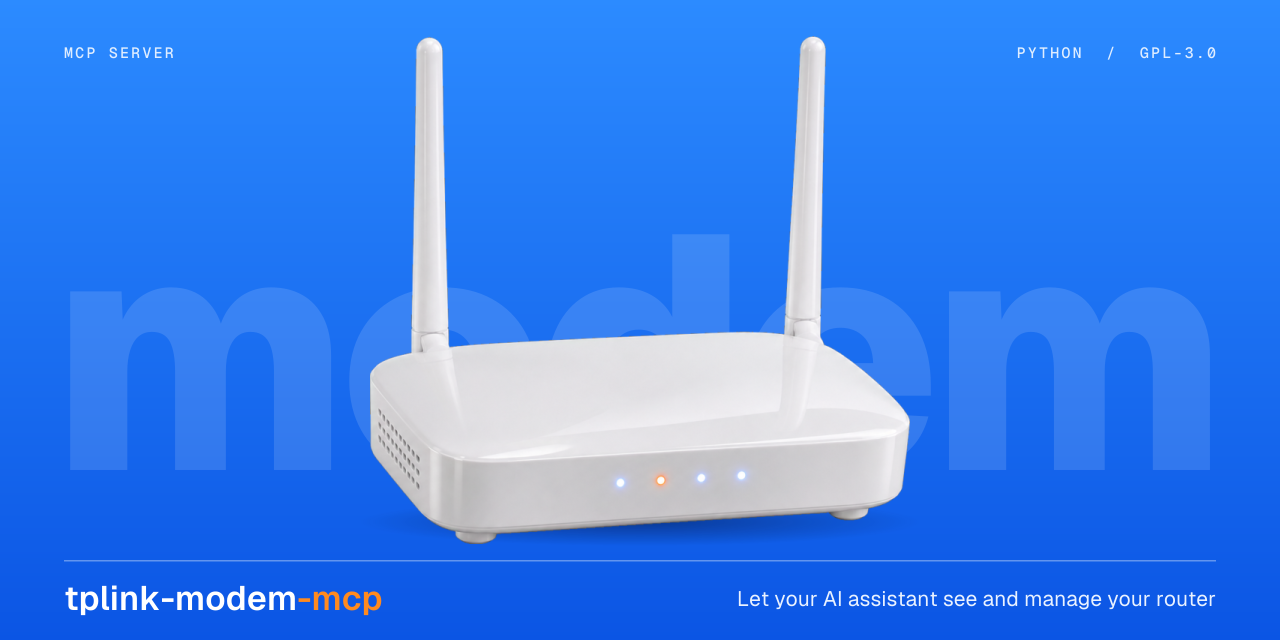
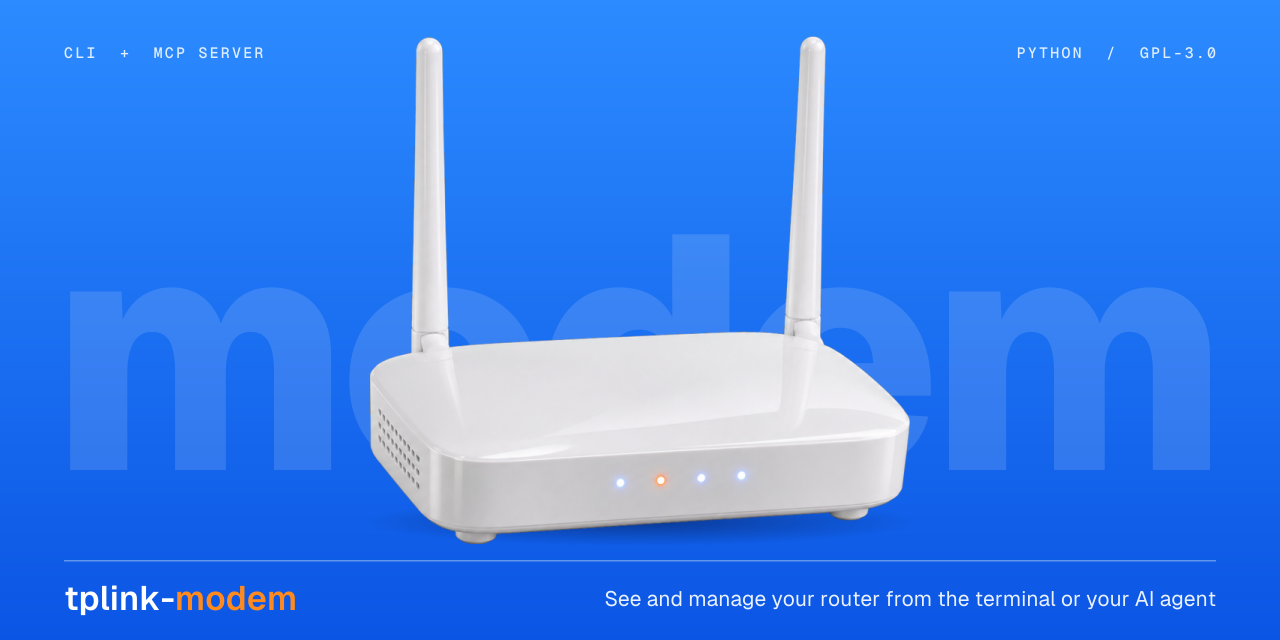
docs: brand kit under the tplink-modem name

Changed region(s): [[0.4688, 0.9062, 0.9375, 0.9688], [0.125, 0.9062, 0.3125, 0.9688], [0.0312, 0.0625, 0.2188, 0.0938]]

diff --git a/assets/brand/build.py b/assets/brand/build.py
@@ -1,4 +1,4 @@
-"""Build the tplink-modem-mcp brand kit: round logo, lockup, social preview (text outlined to paths)."""
+"""Build the tplink-modem brand kit: round logo, lockup, social preview (text outlined to paths)."""
 import base64, sys, pathlib
 from fontTools.ttLib import TTFont
 from fontTools.varLib import instancer
@@ -11,7 +11,7 @@ FONTS = pathlib.Path.home() / ".local/share/fonts/google"
 
 BLUE_TOP, BLUE_BOT = "#3AA0FF", "#0A5BEA"  # circle gradient
 NAVY = "#0A2540"
-ACCENT = "#FF8A1F"                        # status LED / "mcp"
+ACCENT = "#FF8A1F"                        # status LED / "modem"
 WHITE = "#FFFFFF"
 MUTED = "#A9C6F5"
 
@@ -82,8 +82,8 @@ def svg(w, h, body):
 # 2. Horizontal lockup (light and dark text)
 def lockup(text_fill, name):
     h = 160
-    a, wa = text_path(SANS_SB, "tplink-modem", 192, 103, 64, text_fill)
-    b, wb = text_path(SANS_SB, "-mcp", 192 + wa, 103, 64, ACCENT)
+    a, wa = text_path(SANS_SB, "tplink-", 192, 103, 64, text_fill)
+    b, wb = text_path(SANS_SB, "modem", 192 + wa, 103, 64, ACCENT)
     w = int(192 + wa + wb + 16)
     body = f'<g transform="translate(8 8) scale({144/512})">{mark("l"+name)}</g>{a}{b}'
     (OUT / f"lockup-{name}.svg").write_text(svg(w, h, body))
@@ -128,8 +128,8 @@ BG = '''<defs><linearGradient id="bg" x1="0" y1="0" x2="0" y2="1">
 
 
 BANNER_TEXT = {
-    "en": {"kicker": "MCP SERVER", "tagline": "Let your AI assistant see and manage your router"},
-    "tr": {"kicker": "MCP SUNUCUSU", "tagline": "Yapay zekâ asistanın modemini görsün ve yönetsin"},
+    "en": {"kicker": "CLI  +  MCP SERVER", "tagline": "See and manage your router from the terminal or your AI agent"},
+    "tr": {"kicker": "KOMUT SATIRI  +  MCP", "tagline": "Modemini terminalden ya da yapay zekâ ajanından yönet"},
 }
 
 for lang, t in BANNER_TEXT.items():
@@ -142,8 +142,8 @@ for lang, t in BANNER_TEXT.items():
     p.append(tp(MONO, t["kicker"], 64, 58, 15, WHITE, track=2.2, opacity=0.85)[0])
     p.append(tp(MONO, "PYTHON  /  GPL-3.0", 1216, 58, 15, WHITE, "end", track=2.2, opacity=0.85)[0])
     p.append('<rect x="64" y="560" width="1152" height="1.5" fill="#FFFFFF" fill-opacity="0.35"/>')
-    n1, nw = tp(SANS_SB, "tplink-modem", 64, 610, 34, WHITE)
-    n2, _ = tp(SANS_SB, "-mcp", 64 + nw, 610, 34, ACCENT)
+    n1, nw = tp(SANS_SB, "tplink-", 64, 610, 34, WHITE)
+    n2, _ = tp(SANS_SB, "modem", 64 + nw, 610, 34, ACCENT)
     p.append(n1 + n2)
     p.append(tp(SANS_RG, t["tagline"], 1216, 606, 21, CREAM, "end")[0])
     (OUT / f"banner.{lang}.svg").write_text(svg(W, H, "".join(p)))

diff --git a/assets/brand/BRAND.md b/assets/brand/BRAND.md
@@ -11,7 +11,7 @@
 
 ## Name
 
-Always written in lowercase as one word: **tplink-modem-mcp**. In the lockup, `-mcp` is set in the accent color.
+Always written in lowercase as one word: **tplink-modem**. In the lockup, `modem` is set in the accent color.
 
 ## Colors
 
@@ -20,7 +20,7 @@ Always written in lowercase as one word: **tplink-modem-mcp**. In the lockup, `-
 | Circle top | `#3AA0FF` |
 | Circle bottom | `#0A5BEA` |
 | Ink (name on light backgrounds) | `#0A2540` |
-| Accent (`-mcp`) | `#FF8A1F` |
+| Accent (`modem`) | `#FF8A1F` |
 | Modem | White product image, `modem.png` |
 
 ## Type
